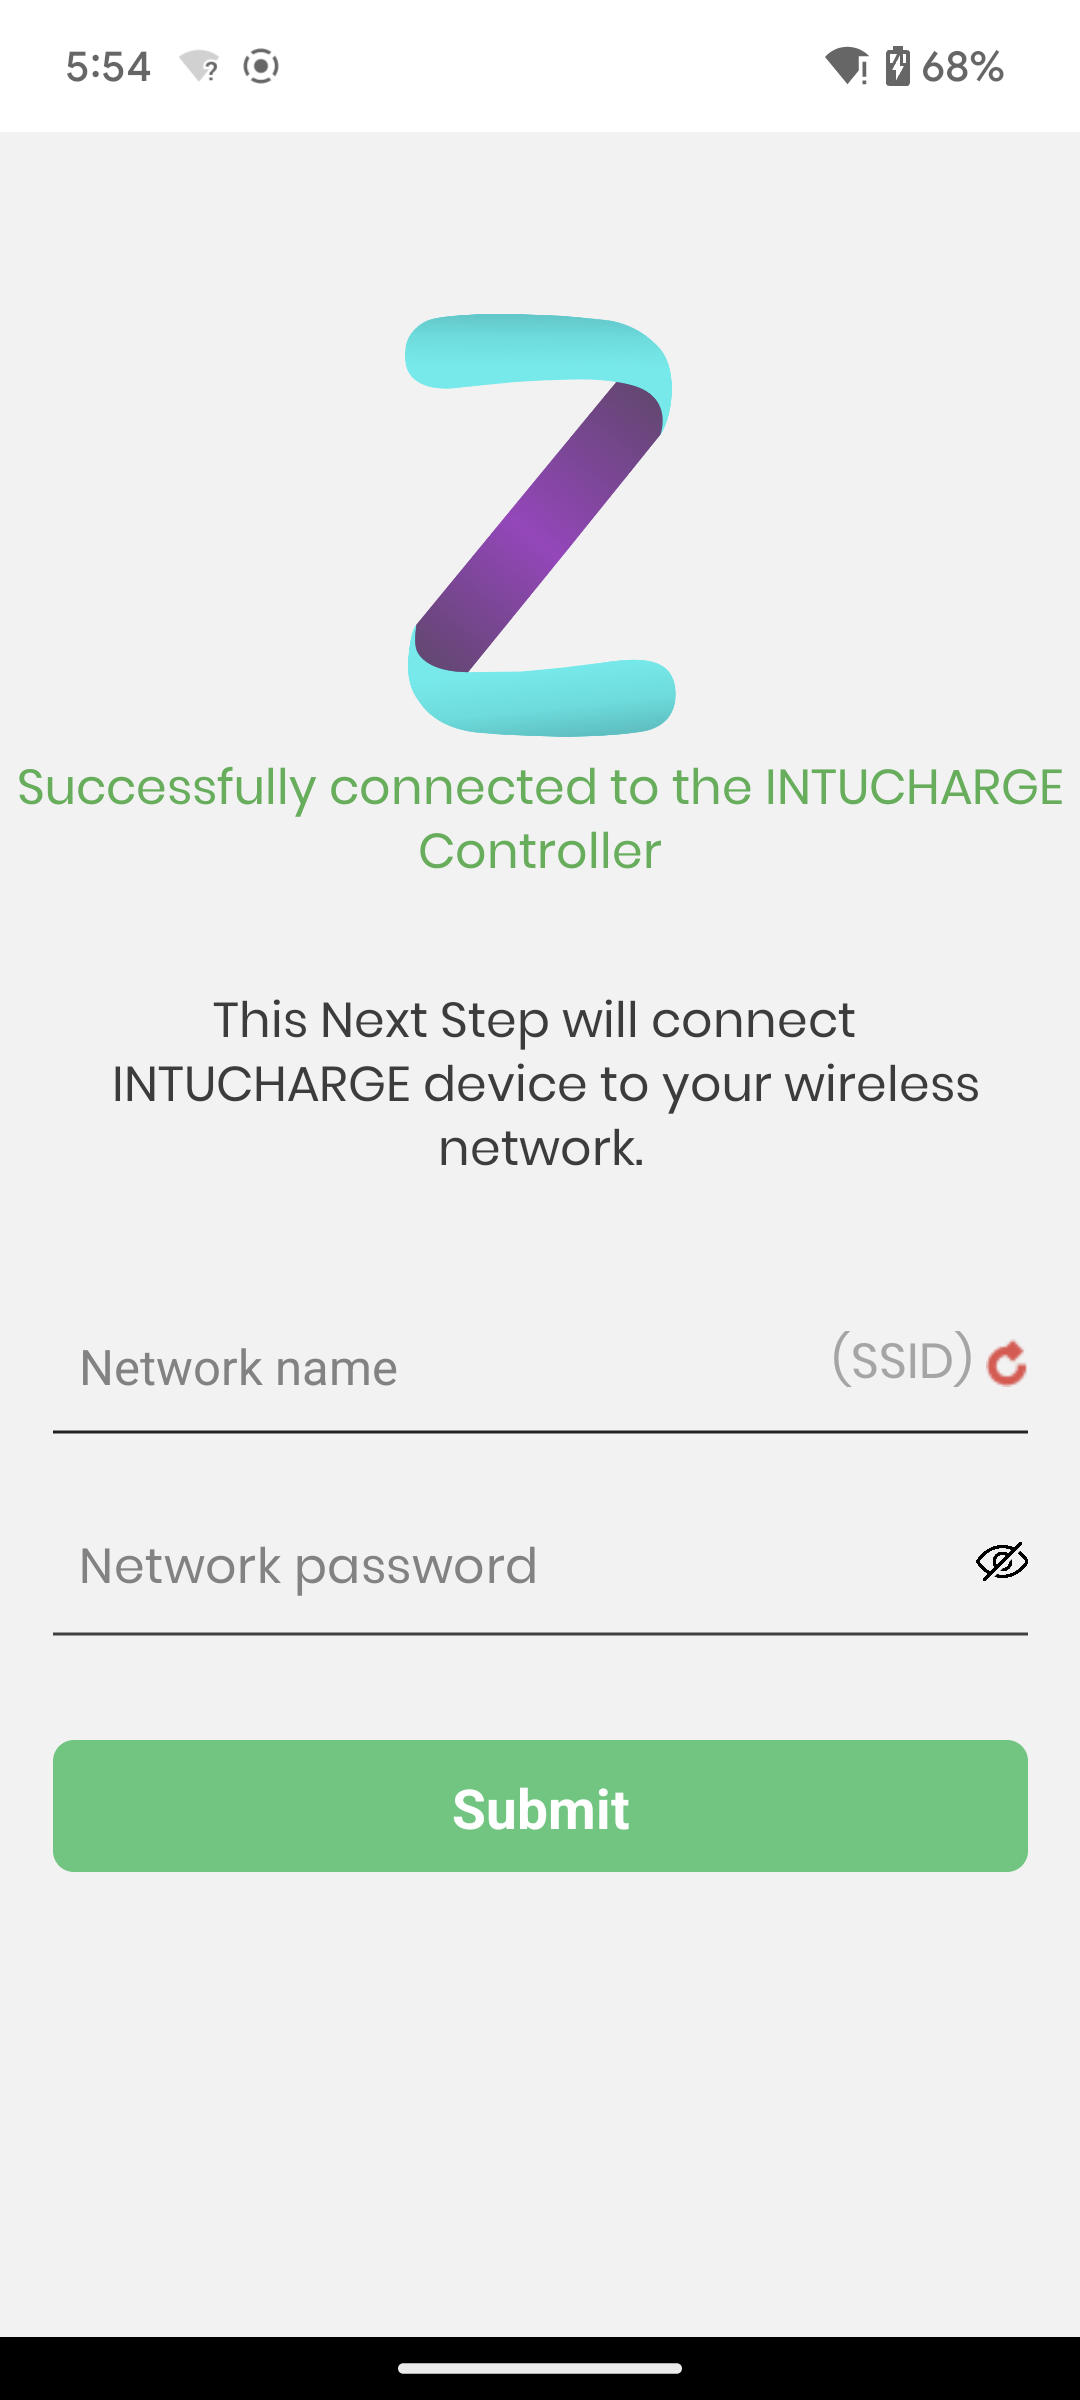
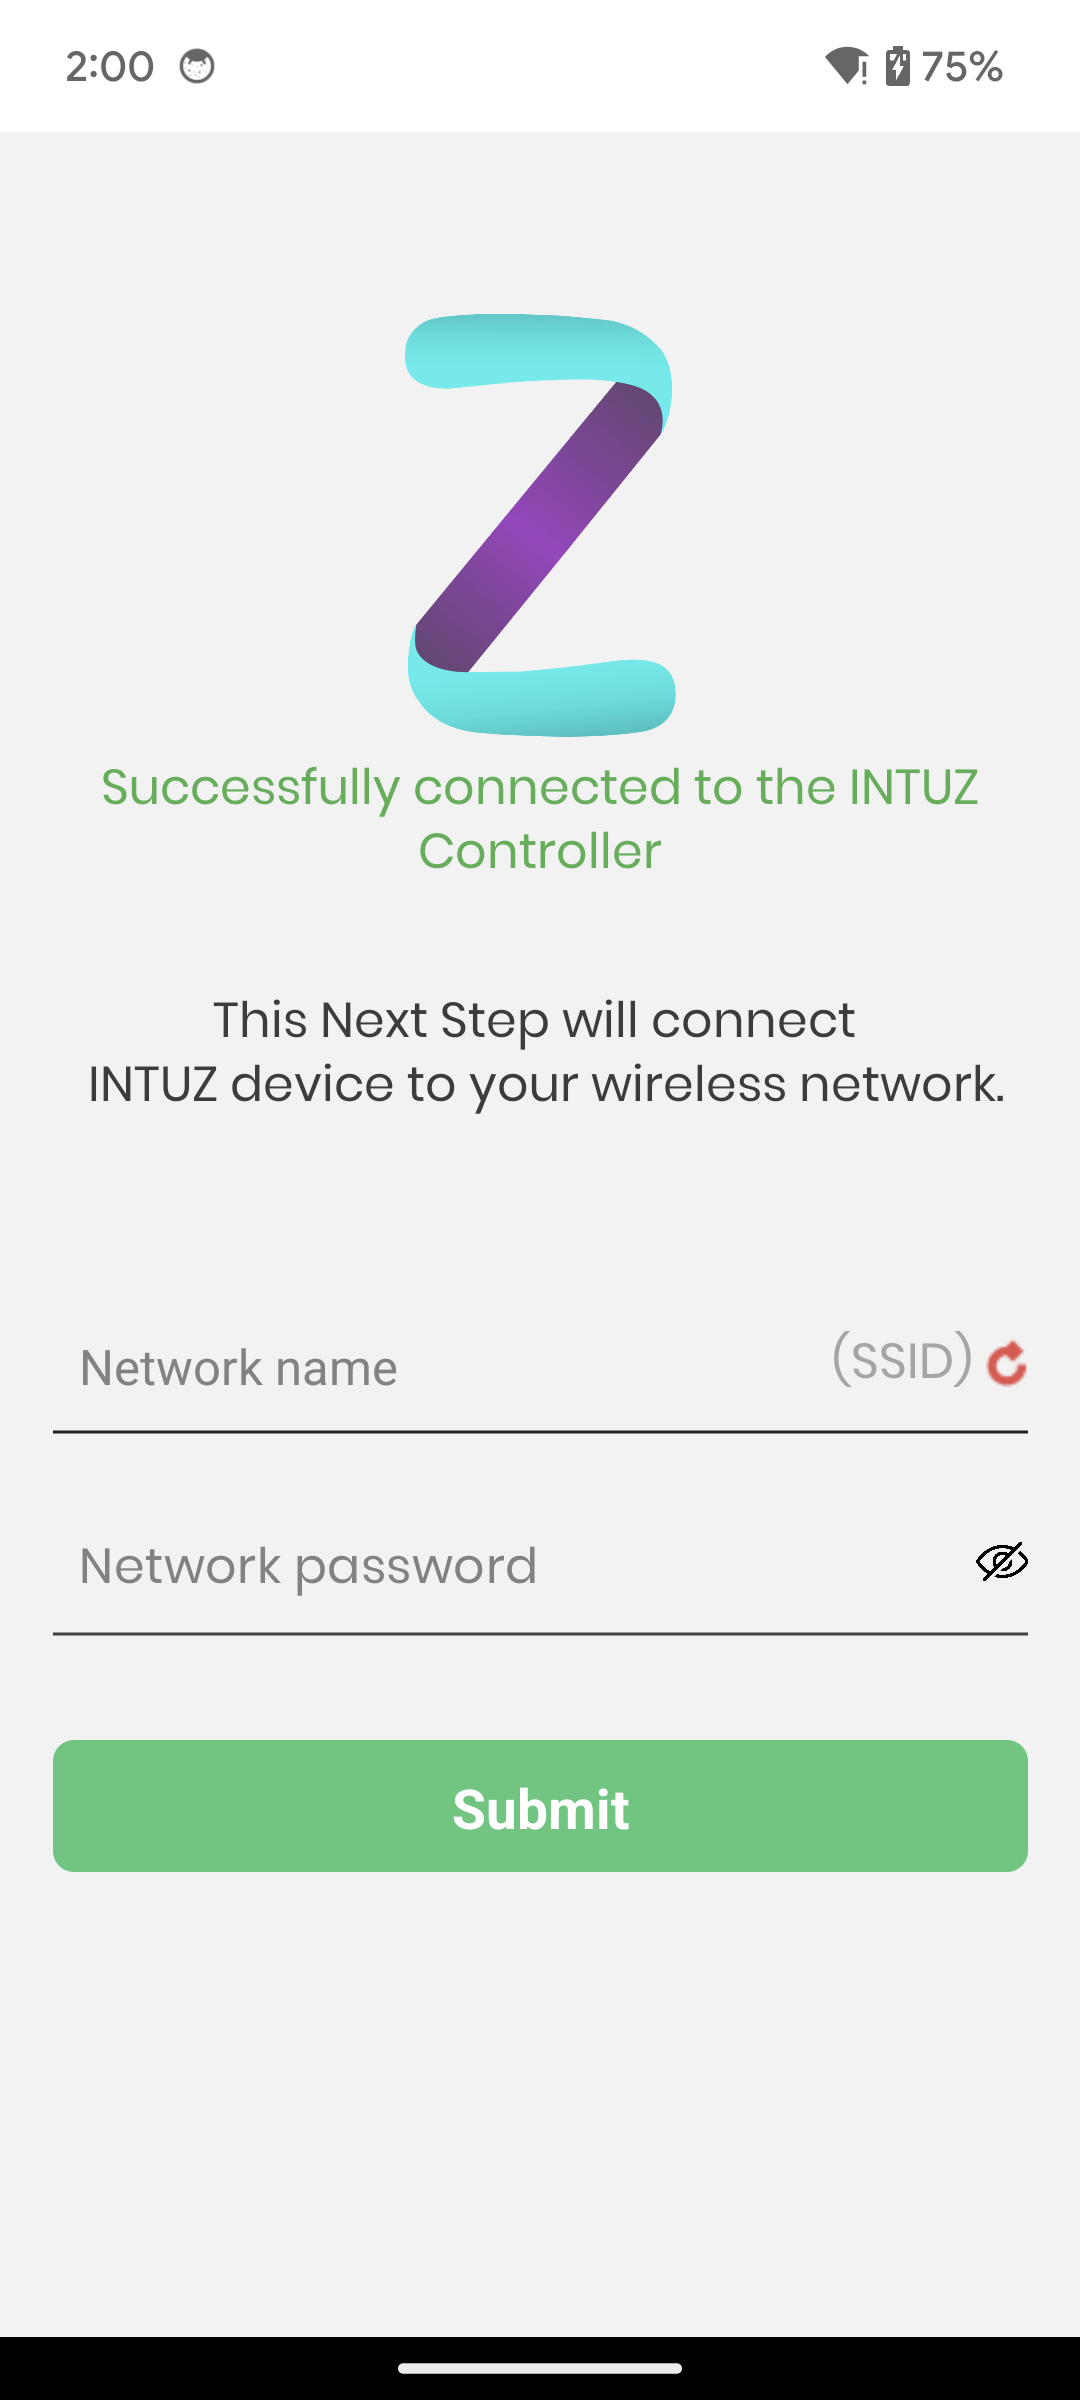
Minor changes

diff --git a/src/screens/ConfigScreen/ConfigScreen.tsx b/src/screens/ConfigScreen/ConfigScreen.tsx
@@ -433,7 +433,7 @@ function ConfigScreen(props: RootStackScreenProps<"ConfigScreen">) {
                     color={theme.colors.message[600]}
                     style={{ fontSize: 16, textAlign: "center" }}
                   >
-                    {"Successfully connected to the INTUCHARGE Controller"}
+                    {"Successfully connected to the INTUZ Controller"}
                   </Text>
                   <Text
                     color={theme.colors.black[800]}
@@ -441,7 +441,7 @@ function ConfigScreen(props: RootStackScreenProps<"ConfigScreen">) {
                     marginTop={10}
                   >
                     {
-                      "This Next Step will connect \n INTUCHARGE device to your wireless network."
+                      "This Next Step will connect \n INTUZ device to your wireless network."
                     }
                   </Text>
                 </View>

diff --git a/src/localization/en.ts b/src/localization/en.ts
@@ -35,7 +35,7 @@ const en = {
         title: 'Connect to Controller',
         image: Images.page_en_3,
         bg: Images.bg_page,
-        subTitle: 'Go to your WIFI settings and find the WIFI network starting with INTUZ. Connect to this network. Its password is “password” (all lower case). IMPORTANT: BE SURE YOU ARE CONNECTED TO THIS INTUCHARGE WIFI NETWORK BEFORE CONTINUING!',
+        subTitle: 'Go to your WIFI settings and find the WIFI network starting with INTUZ. Connect to this network. Its password is “password” (all lower case). IMPORTANT: BE SURE YOU ARE CONNECTED TO THIS INTUZ WIFI NETWORK BEFORE CONTINUING!',
       },
     ],
     continue: 'Continue',
